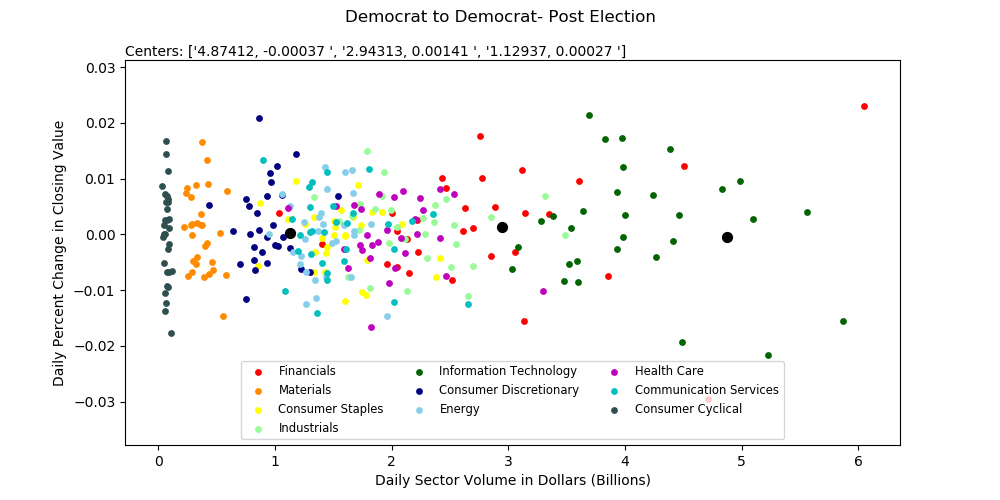
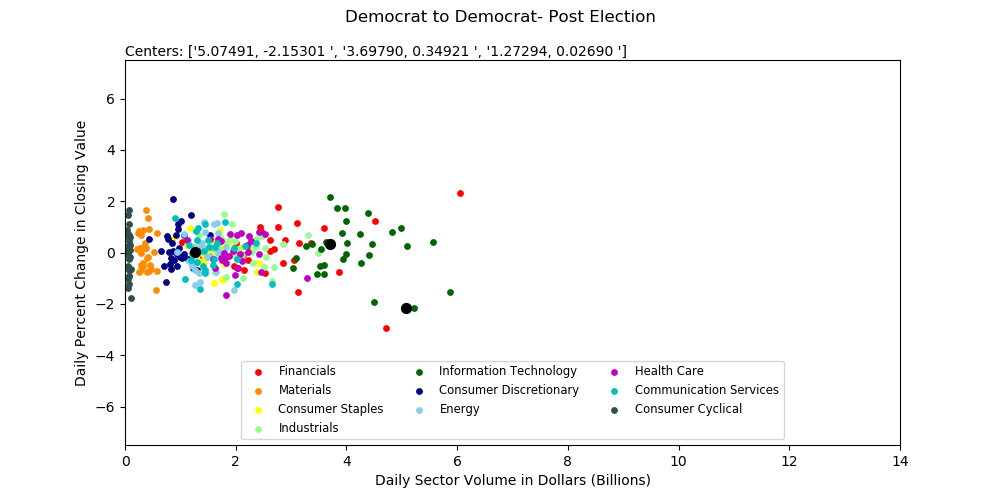
updated plots and scales for clustering

diff --git a/code/clustering.py b/code/clustering.py
@@ -11,6 +11,9 @@ code = ['DR', 'RD', 'DD', 'RR']
 code_label = ['Democrat to Republican', 'Republican to Democrat', 'Democrat to Democrat', 'Republican to Republican']
 color = ['r', 'darkorange', 'yellow', 'palegreen', 'darkgreen', 'navy', 'skyblue', 'm', 'c', 'darkslategray']
 
+X_SCALE = 100       # used to scale the x-axis / data (percent change)
+Y_SCALE = 1000000000
+
 # import the data
 data = pd.read_csv("data\election_data_close_norm.csv")
 raw_volume = pd.read_csv("data\election_data_volume_raw.csv")
@@ -34,7 +37,7 @@ for i in range(len(code)):
         c = raw_close[(data.CODE == code[i]) & (data.SECTOR == sectors[j])]  # query based on the code and sector
 
         # plot the data and calculate the regression slope prior to election and after
-        for k in range(35, 65):
+        for k in range(5, 35):
             day_volume = v.iloc[:, k]
             day_close = c.iloc[:, k]
             if k == 5:
@@ -48,13 +51,14 @@ for i in range(len(code)):
                 # multiply volume by closing stock price
                 subtotal += value * day_close[index]
                 change.append((day_close[index] - previous_close[index]) / day_close[index])
-            x.append(subtotal/1000000000)   # divide by 1 billion for plotting / scaling purposes
-            y.append(mean(change))
+            x.append(subtotal/Y_SCALE)   # divide by 1 billion for plotting / scaling purposes
+            y.append(mean(change)* X_SCALE)
 
             if k == 34:
-                print('pause')
+                # print('pause')
+                pass
             # Used for clustering algorithm ################################################################
-            cluster_list.append([count, subtotal/1000000000, mean(change)])
+            cluster_list.append([count, subtotal/Y_SCALE, mean(change)* X_SCALE])
             count += 1
             ################################################################################################
 
@@ -63,11 +67,13 @@ for i in range(len(code)):
 
     # plot the data for the category *****************************************************************************
     fig, ax = plt.subplots(1, figsize=(10, 5))
-    fig.suptitle(code_label[i] + '- Post Election')
+    fig.suptitle(code_label[i] + '- Pre Election')
     # plt.title('Pre Election')
     plt.xlabel('Daily Sector Volume in Dollars (Billions)')
     plt.ylabel('Daily Percent Change in Closing Value')
-
+    # set the limits on the scales
+    ax.set_xlim(0, 14)
+    ax.set_ylim(-7.5, 7.5)
     # scatter plot of the data color coded by sector
     handles = []
     for z in range(len(sector_x)):
@@ -83,14 +89,14 @@ for i in range(len(code)):
     # plot the centers in larger black circles
     c_x = []    # x points for cluster centers
     c_y = []    # y points for cluster centers
-    formated_centers = []   # used to store / display centers as text in the plot
+    formatted_centers = []   # used to store / display centers as text in the plot
     for v in range(len(clusters.centers)):
         c_x.append(clusters.centers[v][0])
         c_y.append(clusters.centers[v][1])
-        formated_centers.append(str(format(clusters.centers[v][0], '.5f') + ', ' + str(format(clusters.centers[v][1], '.5f') + ' ')))
+        formatted_centers.append(str(format(clusters.centers[v][0], '.5f') + ', ' + str(format(clusters.centers[v][1], '.5f') + ' ')))
     plt.scatter(c_x, c_y, c='black', s=50)
-
+    print(f'Category: {code[i]}, Centers: {formatted_centers}')
     # display before and after slope as text in the plot
-    plt.text(0, 1.01, 'Centers: ' + str(formated_centers), transform=ax.transAxes)
+    plt.text(0, 1.01, 'Centers: ' + str(formatted_centers), transform=ax.transAxes)
     plt.legend(handles, sectors, ncol=3, loc='lower center', fontsize='small')
     plt.show()

diff --git a/code/regression.py b/code/regression.py
@@ -48,6 +48,8 @@ for i in range (len(code)):
         slope_prior, intercept_prior = polyfit(x_prior, y_prior, 1)
         slope_after, intercept_after = polyfit(x_after, y_after, 1)
 
+        print(f'Category: {code[i]}, Sector: {sectors[j]}, Prior: {slope_prior*30*100}, After: {slope_after*30*100}')
+
         # generate the points for two lines (before and after)
         line_x = [-30, 0, 30]
         line_y = [1, intercept_prior, slope_after*30 + intercept_after]
@@ -64,7 +66,7 @@ for i in range (len(code)):
         plt.show()
 
         results.append([code[i], sectors[j], slope_prior, slope_after])
-        print(f"Category: {code[i]}, Sector: {sectors[j]}, Slope: {slope_prior}")
+        # print(f"Category: {code[i]}, Sector: {sectors[j]}, Slope: {slope_prior}")
 
 
 
